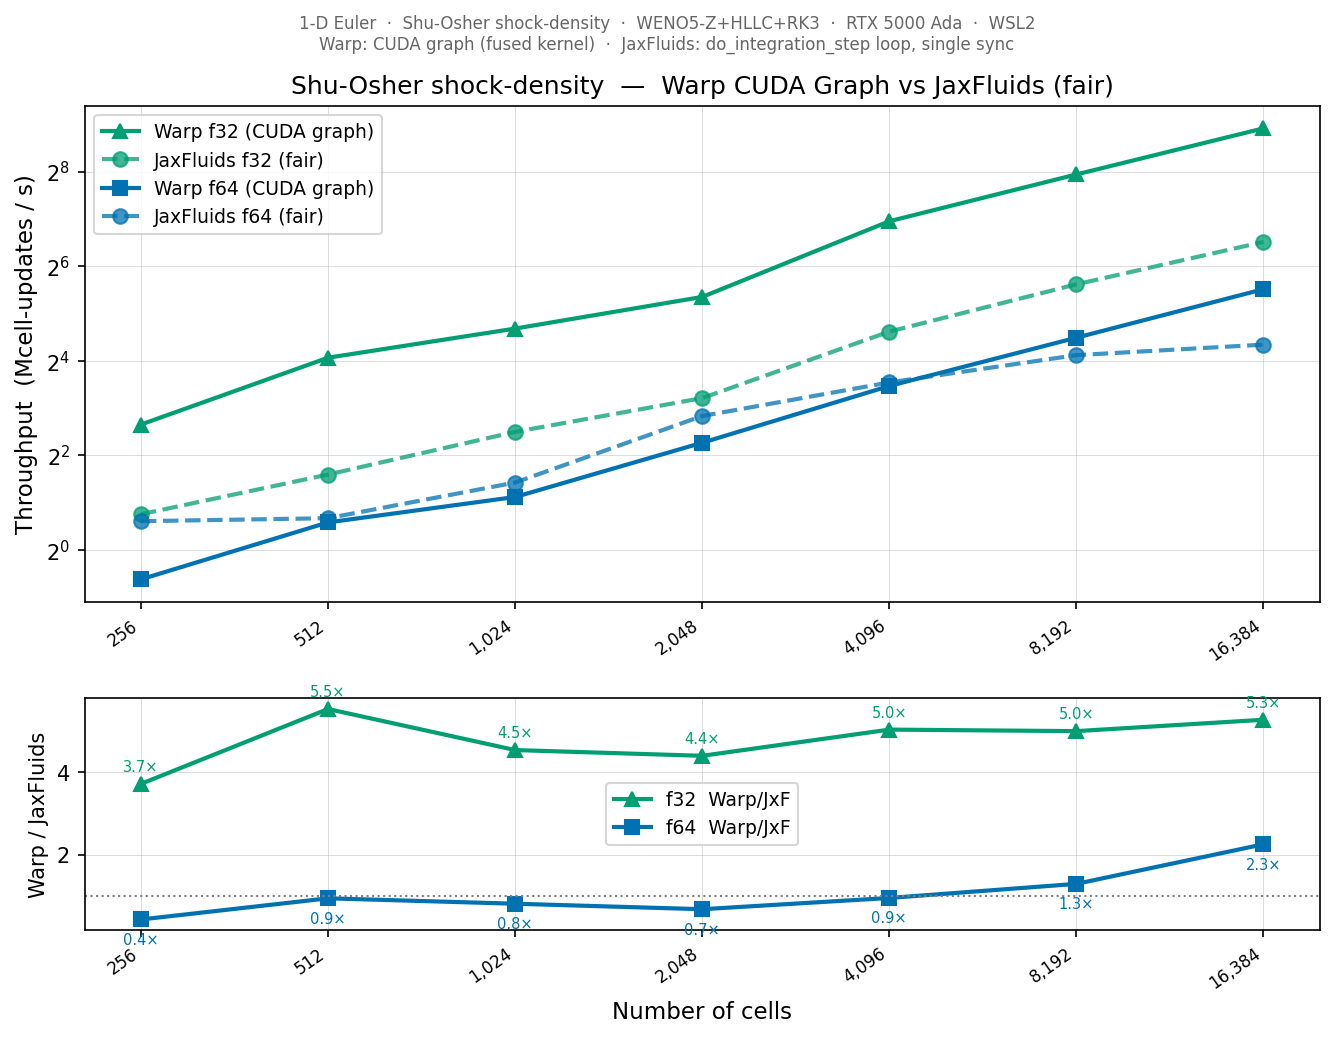
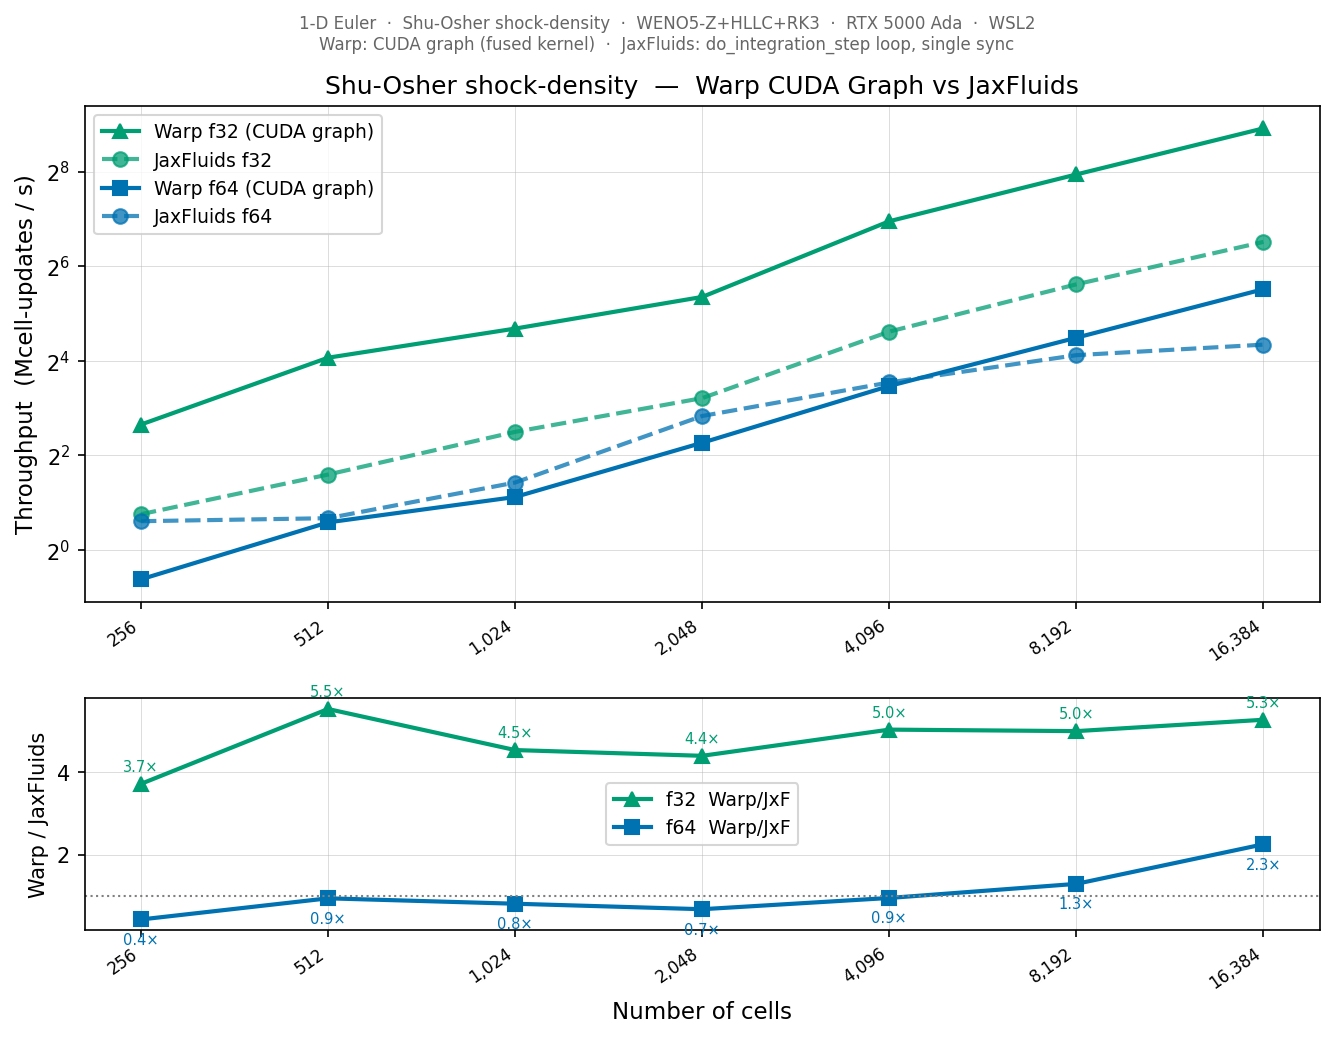
Remove 'fair' label from Warp vs JaxFluids comparison plots

Changed region(s): [[0.2151, 0.0616, 0.8298, 0.0924], [0.2151, 0.1848, 0.2459, 0.2156]]

diff --git a/examples/warplabs_fluids/benchmarks/plot_warp_vs_jxf.py b/examples/warplabs_fluids/benchmarks/plot_warp_vs_jxf.py
@@ -1,5 +1,5 @@
 """
-Warp CUDA graph vs JaxFluids fair — comparison plots for Sod and Shu-Osher.
+Warp CUDA graph vs JaxFluids — comparison plots for Sod and Shu-Osher.
 Generates one figure per case: throughput panel + ratio panel.
 
 Run from examples/warplabs_fluids/:
@@ -76,15 +76,15 @@ for case in CASES:
     # ── Throughput panel ──────────────────────────────────────────────────────
     ax_tp.plot(n32, w32, "^-",  color="#009e73", lw=2, ms=7, label="Warp f32 (CUDA graph)")
     ax_tp.plot(n32, j32, "o--", color="#009e73", lw=2, ms=7, alpha=0.75,
-               label="JaxFluids f32 (fair)")
+               label="JaxFluids f32")
     ax_tp.plot(n64, w64, "s-",  color="#0072b2", lw=2, ms=7, label="Warp f64 (CUDA graph)")
     ax_tp.plot(n64, j64, "o--", color="#0072b2", lw=2, ms=7, alpha=0.75,
-               label="JaxFluids f64 (fair)")
+               label="JaxFluids f64")
 
     ax_tp.set_xscale("log", base=2)
     ax_tp.set_yscale("log", base=2)
     ax_tp.set_ylabel("Throughput  (Mcell-updates / s)", fontsize=11)
-    ax_tp.set_title(f"{case['title']}  —  Warp CUDA Graph vs JaxFluids (fair)", fontsize=12)
+    ax_tp.set_title(f"{case['title']}  —  Warp CUDA Graph vs JaxFluids", fontsize=12)
     ax_tp.legend(fontsize=9)
     ax_tp.grid(True, which="both", lw=0.4, alpha=0.5)
 
